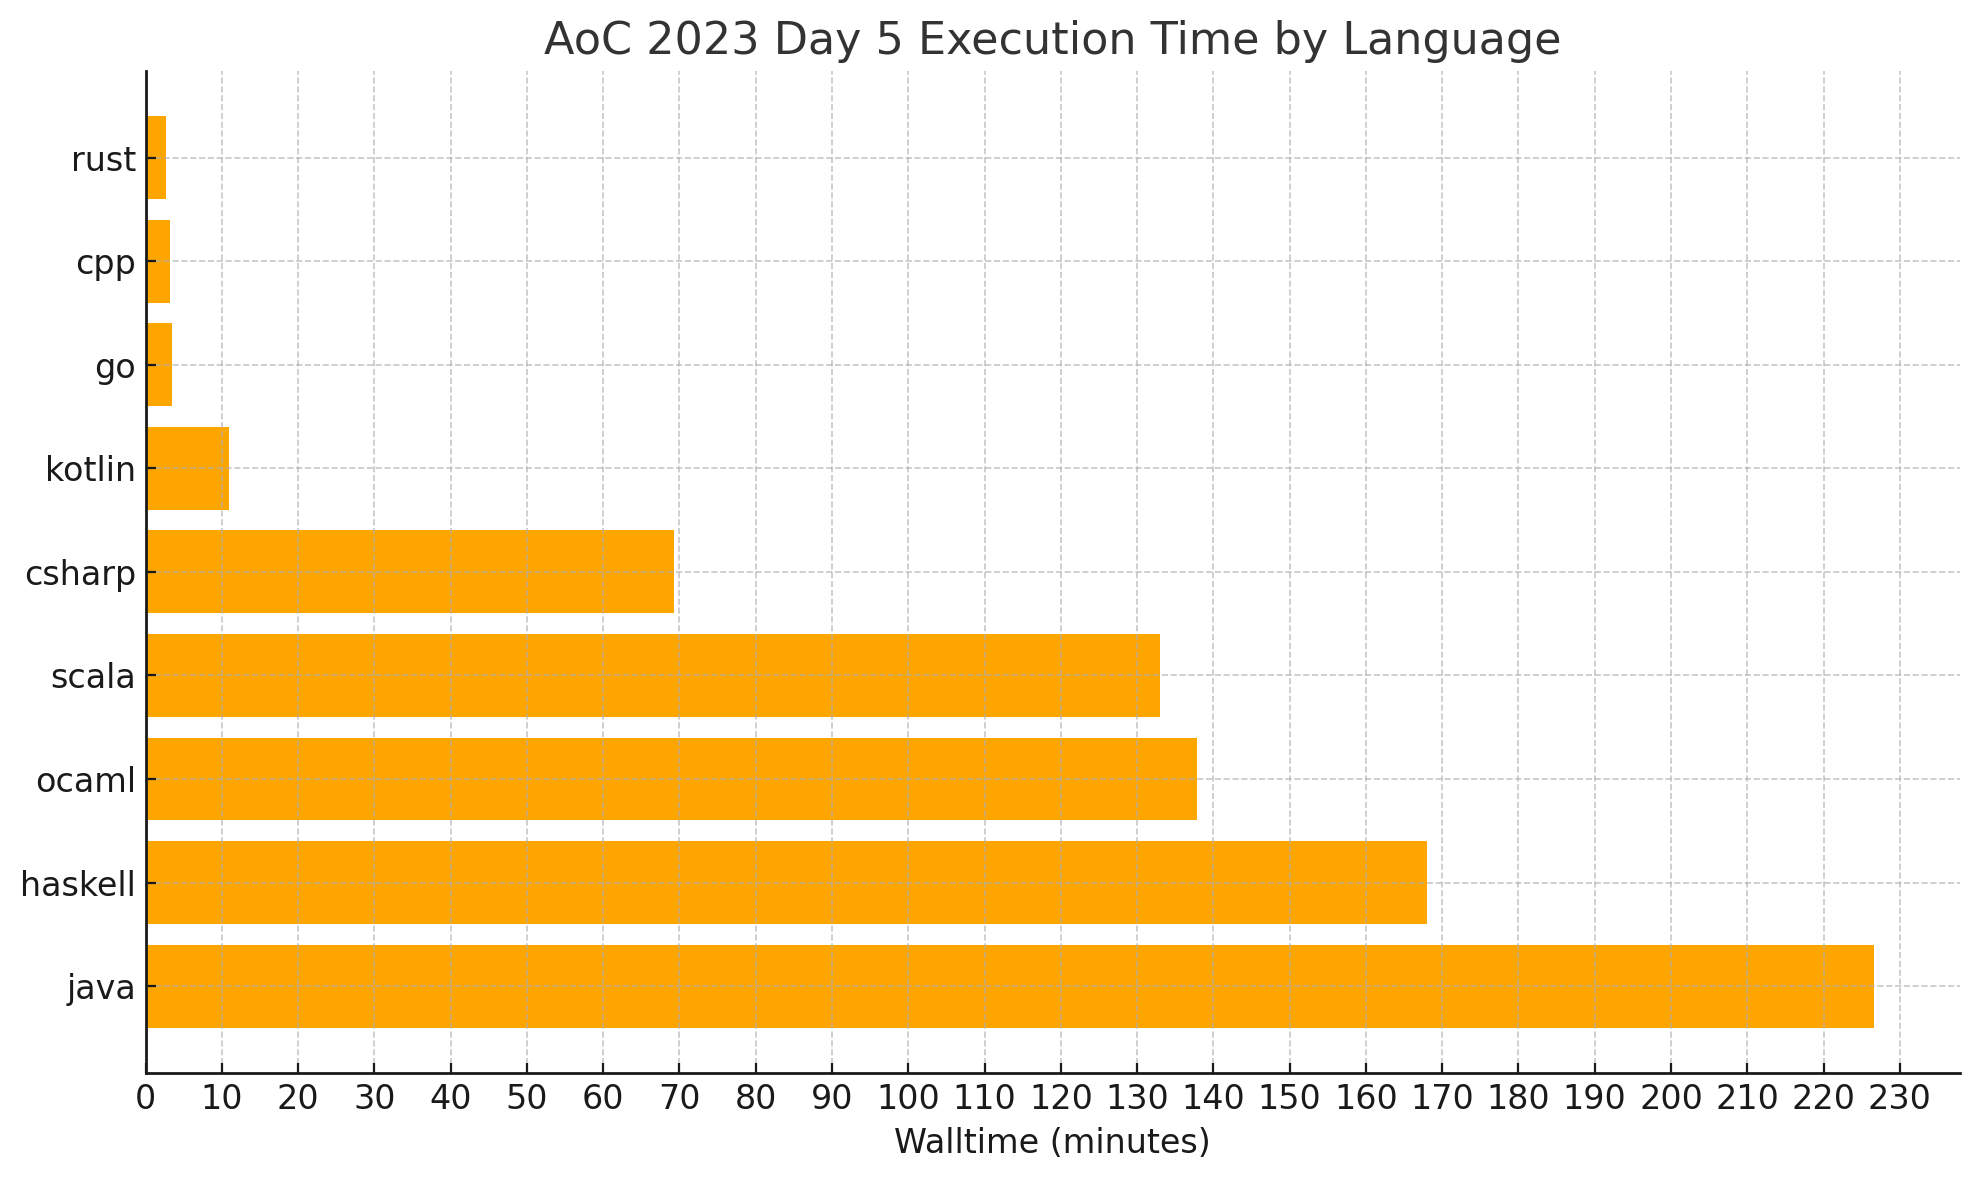
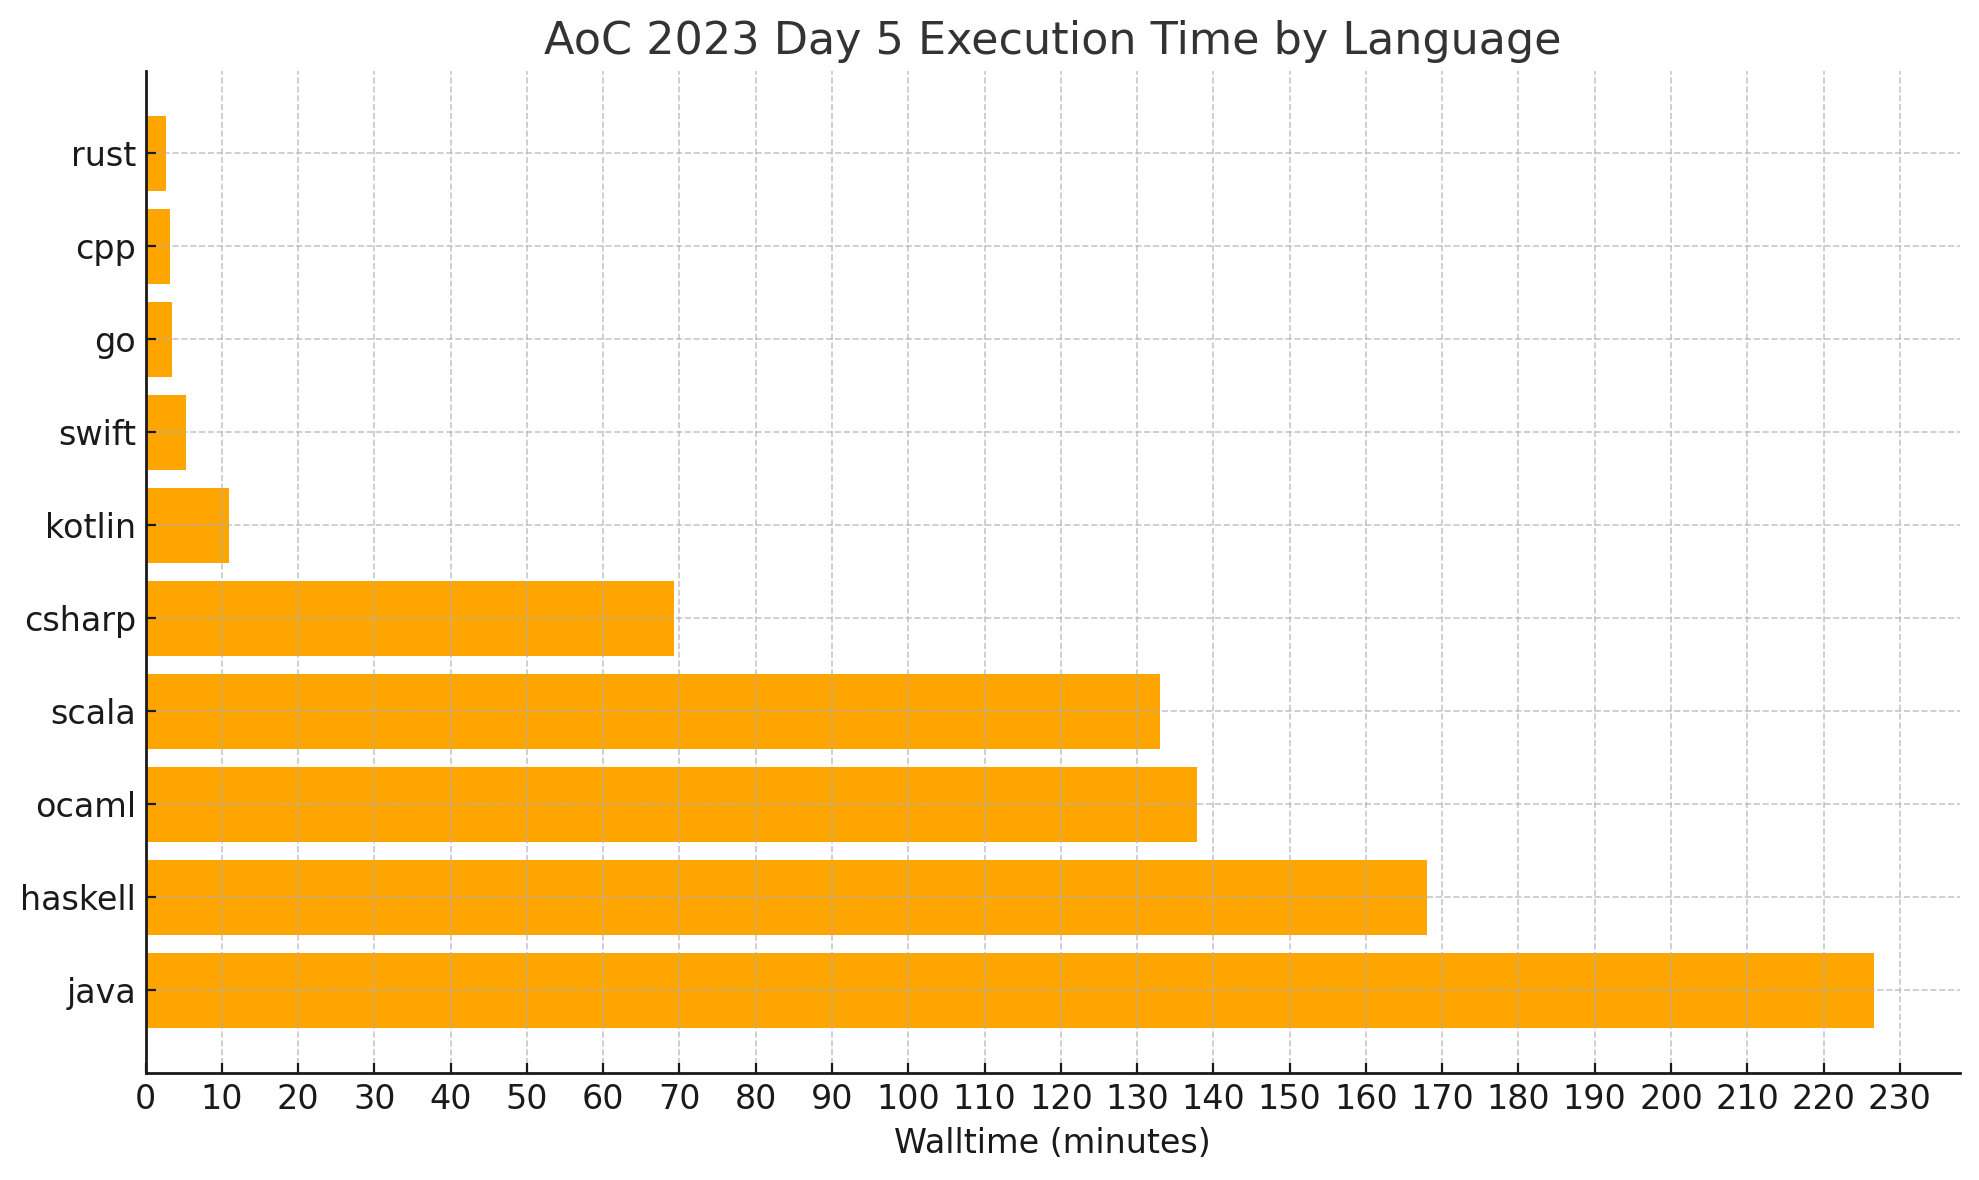
updated bar chart of benchmark results

Changed region(s): [[0.0, 0.2746, 0.9555, 0.8542], [0.0308, 0.122, 0.0925, 0.2746]]

diff --git a/README.md b/README.md
@@ -79,6 +79,7 @@ We ran the benchmarks on a compute server with two AMD EPYC 9354 32-core process
 | rust     | 00:02:37            |
 | cpp      | 00:03:15            |
 | go       | 00:03:26            |
+| swift    | 00:05:17            |
 | kotlin   | 00:11:00            |
 | csharp   | 01:09:20            |
 | scala    | 02:13:01            |
@@ -87,6 +88,8 @@ We ran the benchmarks on a compute server with two AMD EPYC 9354 32-core process
 | java     | 03:46:34            |
 
 ![Execution Time Chart](doc/images/aoc23d5.png)
+
+We're currently reviewing the bottom five results to make sure we've enabled the typical optimizations.
 
 ### Reproducing the benchmarks
 
